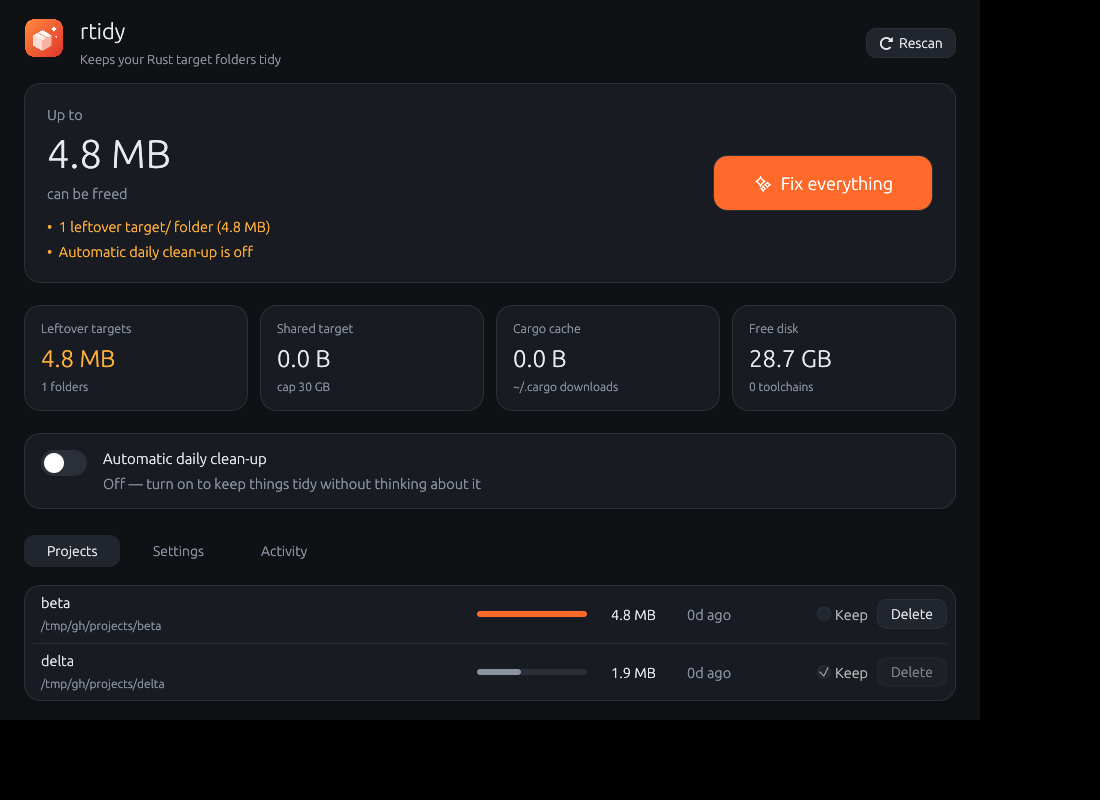
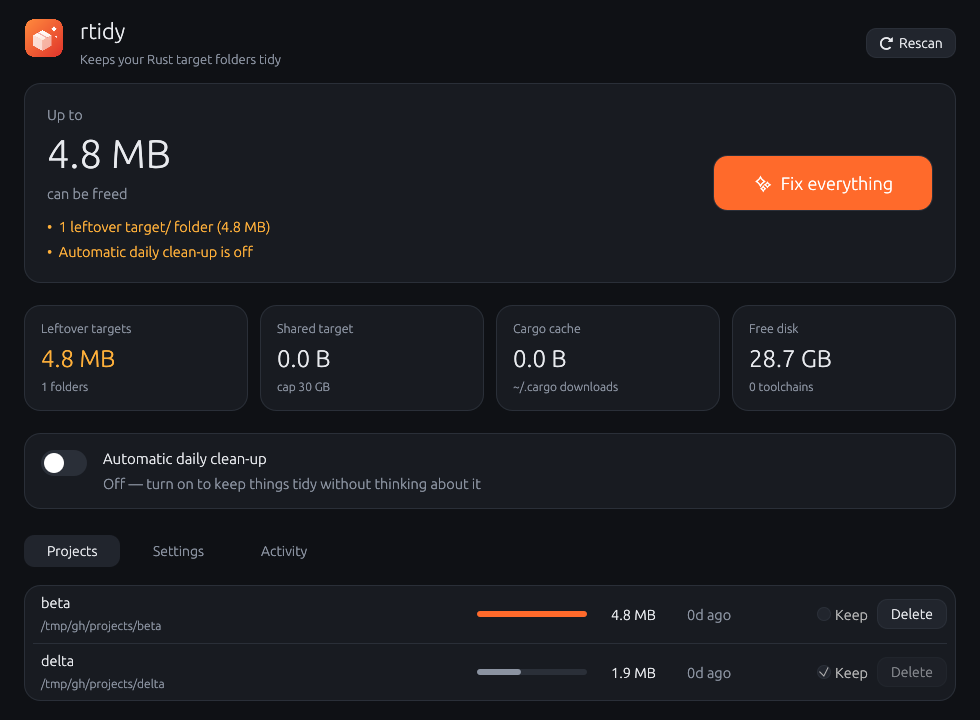
Delete v0.2.0 release; only release on manual tags; fix screenshots
Claude-Session: https://claude.ai/code/session_01YEeNuk8RrKwaxjPVTuxkyJ

diff --git a/README.md b/README.md
@@ -20,7 +20,7 @@ Shared dependencies get compiled again and again, and nothing ever cleans up.
 
 ## Install
 
-Download from **Releases**:
+Build from source (see below), or download installers from **Actions → build → Artifacts**:
 
 | OS | File |
 |---|---|
